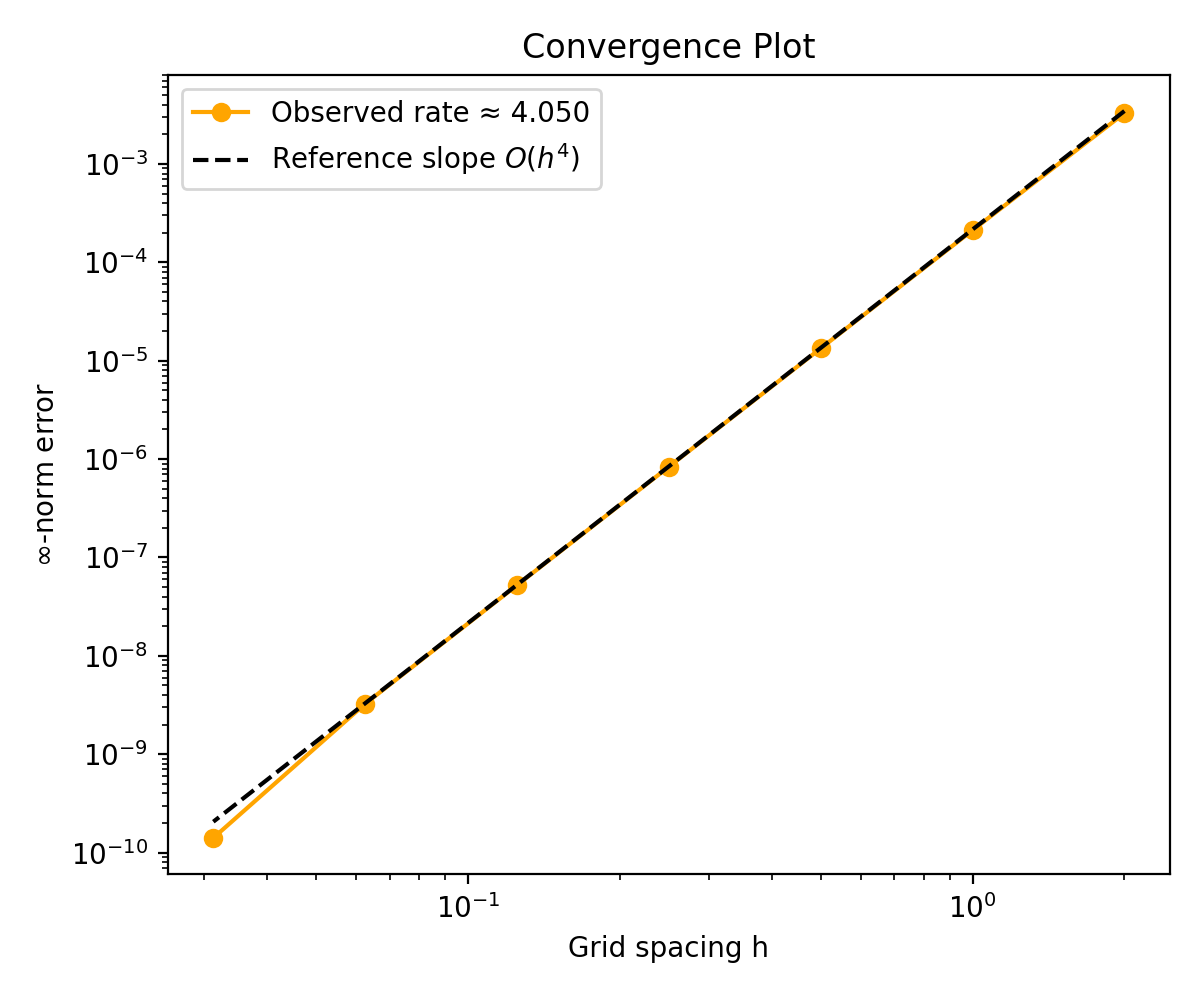
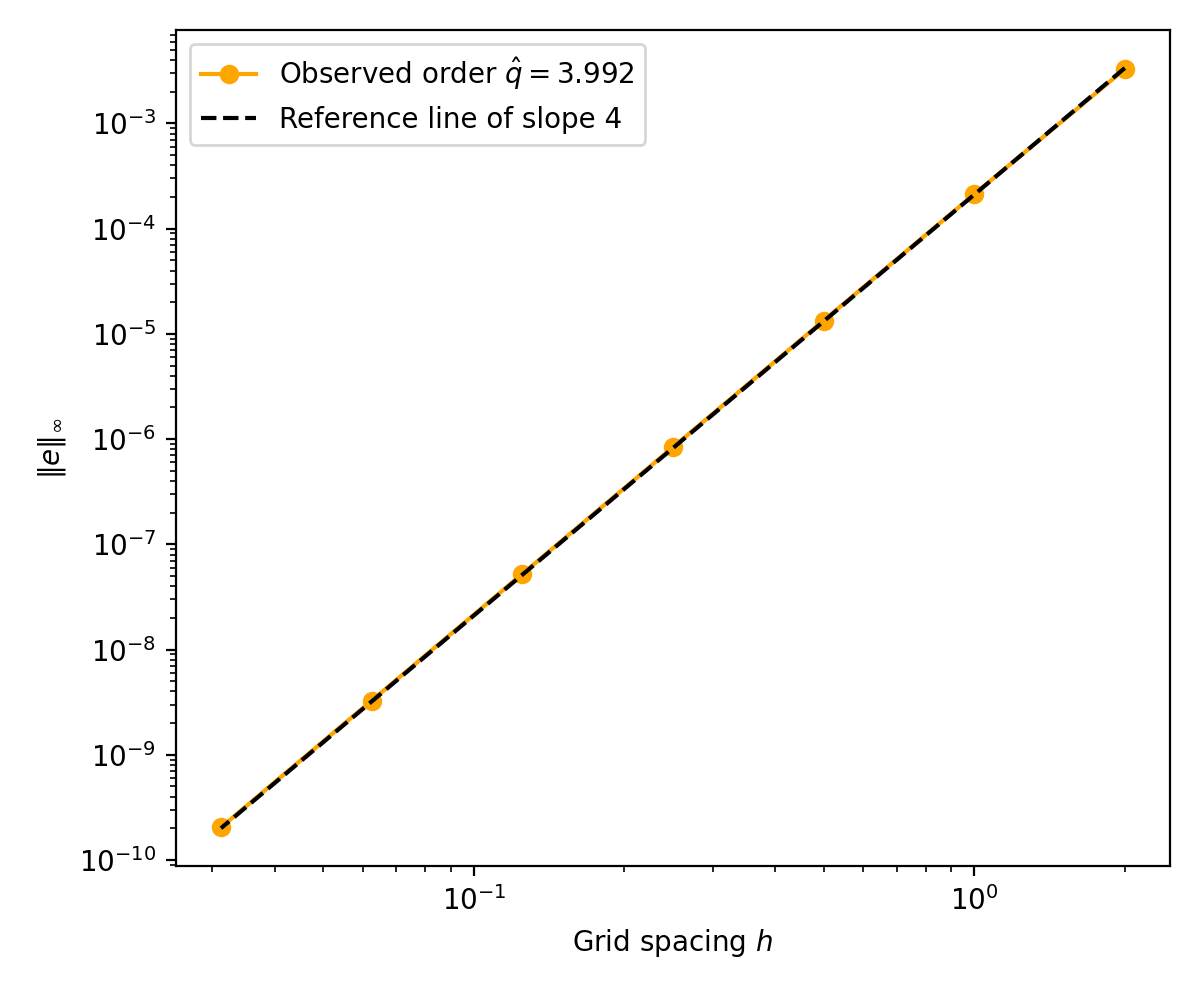
Compact scheme - p and sign as in 3.4, integer weights, cleanups

diff --git a/Chapter3/higher_order/compact/poisson_collatz.py b/Chapter3/higher_order/compact/poisson_collatz.py
@@ -16,11 +16,13 @@ os.environ['CC'] = 'mpicc'
 
 # python3 poisson_collatz.py -ksp_converged_reason -ksp_type cg -ksp_rtol 1e-13 -pc_type none
 # ref - Gupta (1984), A fourth-order Poisson solver, J. Comput. Phys. 55(1), https://doi.org/10.1016/0021-9991(84)90022-6
+# -(d2p/dx2 + d2p/dy2) = f on [0, 16]^2, p = 0 on the boundary, with
+# f = -sin(pi x/8) sin(pi y/8) and p = -[2 (pi/8)^2]^(-1) sin(pi x/8) sin(pi y/8)
 
 
 # The nine point stencil is written as a sum of shifted Functions (the "f() notation").
-# Custom weights (u.dx2(weights=...)) act along one dimension, so cannot reach the
-# diagonal points, and nested derivatives (u.dx2.dy2) are not yet supported inside
+# Custom weights (p.dx2(weights=...)) act along one dimension, so cannot reach the
+# diagonal points, and nested derivatives (p.dx2.dy2) are not yet supported inside
 # petscsolve.
 
 PetscInitialize()
@@ -88,7 +90,6 @@ infinity_norms = []
 discrete_l2_norms = []
 ksp_iters = []
 
-# Not acc really used
 so = 2
 
 
@@ -97,34 +98,33 @@ for n in n_values:
         shape=(n, n), extent=(Lx, Ly), subdomains=subdomains, dtype=np.float64
     )
 
-    u = Function(name='u', grid=grid, space_order=so)
+    p = Function(name='p', grid=grid, space_order=so)
     f = Function(name='f', grid=grid, space_order=so)
     bc = Function(name='bc', grid=grid, space_order=so)
 
     ##### 9-point stencil #####
     x, y = grid.dimensions
     h_x = x.spacing
-    h_x = x.spacing
     h_y = y.spacing
 
-    top_left = u.subs({x: x - h_x, y: y + h_y})
-    top_middle = u.subs({x: x, y: y + h_y})
-    top_right = u.subs({x: x + h_x, y: y + h_y})
+    top_left = p.subs({x: x - h_x, y: y + h_y})
+    top_middle = p.subs({x: x, y: y + h_y})
+    top_right = p.subs({x: x + h_x, y: y + h_y})
 
-    middle_left = u.subs({x: x - h_x, y: y})
-    middle_middle = u.subs({x: x, y: y})
-    middle_right = u.subs({x: x + h_x, y: y})
+    middle_left = p.subs({x: x - h_x, y: y})
+    middle_middle = p.subs({x: x, y: y})
+    middle_right = p.subs({x: x + h_x, y: y})
 
-    bottom_left = u.subs({x: x - h_x, y: y - h_y})
-    bottom_middle = u.subs({x: x, y: y - h_y})
-    bottom_right = u.subs({x: x + h_x, y: y - h_y})
+    bottom_left = p.subs({x: x - h_x, y: y - h_y})
+    bottom_middle = p.subs({x: x, y: y - h_y})
+    bottom_right = p.subs({x: x + h_x, y: y - h_y})
     points = [
         top_left, top_middle, top_right,
         middle_left, middle_middle, middle_right,
         bottom_left, bottom_middle, bottom_right
     ]
-    weights = [1./6., 4./6., 1./6, 4./6., -20./6., 4./6., 1./6., 4./6., 1./6.]
-    nine_point_stencil_lhs = sum(w*p/h_x**2 for w, p in zip(weights, points))
+    weights = [1, 4, 1, 4, -20, 4, 1, 4, 1]
+    nine_point_stencil_lhs = -sum(w*pt for w, pt in zip(weights, points))/(6*h_x**2)
 
     top_left = f.subs({x: x - h_x, y: y + h_y})
     top_middle = f.subs({x: x, y: y + h_y})
@@ -143,7 +143,7 @@ for n in n_values:
         bottom_left, bottom_middle, bottom_right
     ]
     weights = [0., 1./12., 0., 1./12., 8./12., 1./12., 0., 1./12., 0.]
-    nine_point_stencil_rhs = sum(w*p for w, p in zip(weights, points))
+    nine_point_stencil_rhs = sum(w*pt for w, pt in zip(weights, points))
 
     eqn = Eq(nine_point_stencil_lhs, nine_point_stencil_rhs, subdomain=grid.interior)
 
@@ -154,7 +154,7 @@ for n in n_values:
 
     k1, k2 = 1., 1.
 
-    f.data[:] = np.float64(np.sin((np.pi*X*k1)/8.0)) * np.float64(np.sin((np.pi*Y*k2)/8.0))
+    f.data[:] = -np.float64(np.sin((np.pi*X*k1)/8.0)) * np.float64(np.sin((np.pi*Y*k2)/8.0))
 
     bc.data[:, 0] = 0.
     bc.data[:, -1] = 0.
@@ -162,19 +162,19 @@ for n in n_values:
     bc.data[-1, :] = 0.
 
     # Create boundary condition expressions using subdomains
-    bcs = [EssentialBC(u, bc, subdomain=sub1)]
-    bcs += [EssentialBC(u, bc, subdomain=sub2)]
-    bcs += [EssentialBC(u, bc, subdomain=sub3)]
-    bcs += [EssentialBC(u, bc, subdomain=sub4)]
+    bcs = [EssentialBC(p, bc, subdomain=sub1)]
+    bcs += [EssentialBC(p, bc, subdomain=sub2)]
+    bcs += [EssentialBC(p, bc, subdomain=sub3)]
+    bcs += [EssentialBC(p, bc, subdomain=sub4)]
 
     exprs = [eqn] + bcs
 
-    # Can play around with initial guess -> if it's zero then cg just converges in 1 iteration because
-    # the rhs is an eigenvector of the matrix -> I think?
-    u.data[:] = 0.001
+    # A nonzero initial guess, so that CG iterates. From zero it converges in
+    # one iteration, since f is an eigenvector of the discrete operator.
+    p.data[:] = 0.001
 
     petsc = petscsolve(
-        exprs, target=u,
+        exprs, target=p,
         solver_parameters={'ksp_rtol': 1e-13, 'ksp_type': 'cg', 'pc_type': 'none'},
         options_prefix='poisson_collatz'
     )
@@ -186,11 +186,11 @@ for n in n_values:
     iters = summary.petsc[('section0', 'poisson_collatz')].KSPGetIterationNumber
     ksp_iters.append(iters)
 
-    u_exact = Function(name='u_exact', grid=grid, space_order=so)
-    u_exact.data[:] = exact(X, Y)
+    p_exact = Function(name='p_exact', grid=grid, space_order=so)
+    p_exact.data[:] = exact(X, Y)
 
     diff = Function(name='diff', grid=grid, space_order=so)
-    diff.data[:] = u_exact.data[:] - u.data[:]
+    diff.data[:] = p_exact.data[:] - p.data[:]
 
     # Compute infinity norm using numpy
     infinity_norm = np.linalg.norm(diff.data[:].ravel(), ord=np.inf)
@@ -255,26 +255,26 @@ ax1 = plt.subplot(gs[1])
 cax = plt.subplot(gs[2])  # For colorbar
 
 # Devito solution
-c1 = ax0.contourf(X, Y, u.data[:], levels=100, cmap='viridis')
+c1 = ax0.contourf(X, Y, p.data[:], levels=100, cmap='viridis')
 ax0.set_title('Devito Solution')
 ax0.set_xlabel('x')
 ax0.set_ylabel('y')
 
 # Exact solution
-c2 = ax1.contourf(X, Y, u_exact.data[:], levels=100, cmap='viridis')
+c2 = ax1.contourf(X, Y, p_exact.data[:], levels=100, cmap='viridis')
 ax1.set_title('Exact Solution')
 ax1.set_xlabel('x')
 ax1.set_ylabel('y')
 
 # Sync color scales
-vmin = min(u.data[:].min(), u_exact.data[:].min())
-vmax = max(u.data[:].max(), u_exact.data[:].max())
+vmin = min(p.data[:].min(), p_exact.data[:].min())
+vmax = max(p.data[:].max(), p_exact.data[:].max())
 c1.set_clim(vmin, vmax)
 c2.set_clim(vmin, vmax)
 
 # Colorbar
 cb = fig.colorbar(c2, cax=cax)
-cb.set_label('Field u')
+cb.set_label('Field p')
 
 
 for ax in [ax0, ax1]:
